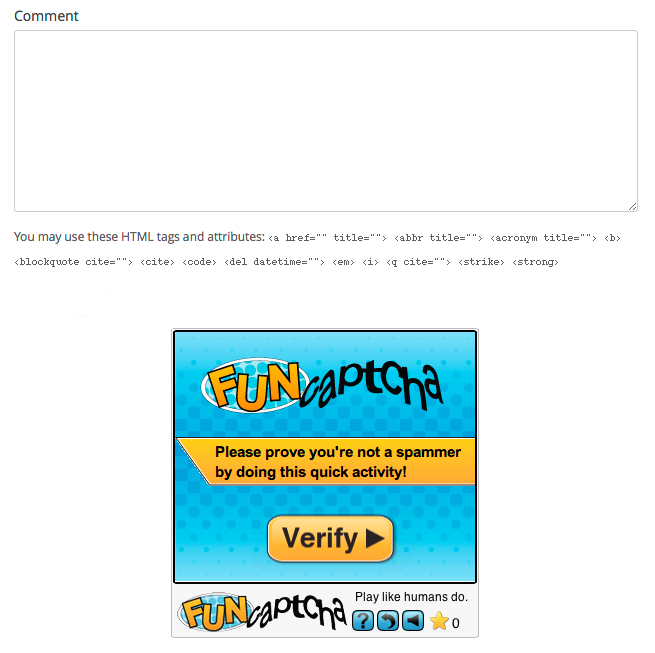
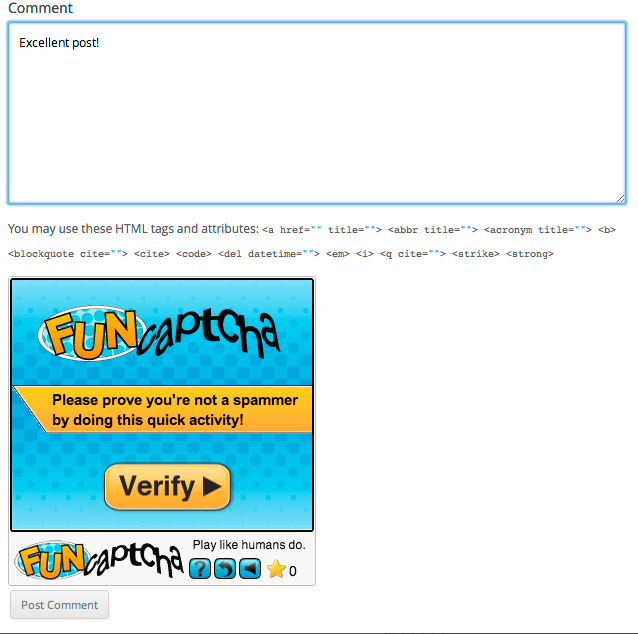
Version 0.2.0. Includes buddy press registration and theme support. Now FunCaptcha is displayed before the comment button, not after. Fixed a rare issue on small mobile themes where a div width was less than 300 pixels, which could cause the FunCaptcha to get cut off. It'll now scale down and make i
git-svn-id: https://plugins.svn.wordpress.org/funcaptcha/trunk@670988 b8457f37-d9ea-0310-8a92-e5e31aec5664

diff --git a/wp_funcaptcha.php b/wp_funcaptcha.php
@@ -1,7 +1,7 @@
 <?php
 /**
  * @package FunCaptcha
- * @version 0.1.0
+ * @version 0.2.0
  */
 /*
 Plugin Name: FunCaptcha
@@ -9,7 +9,7 @@ Plugin URI:  http://wordpress.org/extend/plugins/funcaptcha/
 Description: Stop spammers with a fun, fast mini-game! FunCaptcha is free, and works on every desktop and mobile device.
 Author: SwipeAds
 Author URI: https://swipeads.co/
-Version: 0.1.0
+Version: 0.2.0
 */
 
 
@@ -21,6 +21,9 @@ require_once(PLUGIN_PATH . "funcaptcha.php");
 require_once(PLUGIN_PATH . "addons/wp_funcatpcha_cf7.php");
 
 add_filters_actions();
+
+//BP_INSTALLED
+
 /**
 * Added wordpress filters for funcaptcha
 *
@@ -55,8 +58,14 @@ function funcaptcha_init() {
     
     // If register_form is set in the options, attach to the register hooks
     if( $funcaptcha_options['register_form'] ) {
-        add_action('register_form', 'funcaptcha_register_form');
-        add_action('register_post', 'funcaptcha_register_post', 10, 3);
+        if (BP_INSTALLED) {
+            add_action('bp_before_registration_submit_buttons', 'funcaptcha_register_form_bp');
+            add_action('bp_signup_validate', 'funcaptcha_register_post_bp');
+        } else {
+            add_action('register_form', 'funcaptcha_register_form');
+            add_action('register_post', 'funcaptcha_register_post', 10, 3);
+        }
+        
     }
 
     // If password_form is set in the options, attach to the lost password hooks    
@@ -102,7 +111,11 @@ function funcaptcha_add_admin_menu() {
 function funcpatcha_addons() {
     require_once(ABSPATH . 'wp-admin/includes/plugin.php');
     define('CF7_INSTALLED', is_plugin_active('contact-form-7/wp-contact-form-7.php'));
+    define('BP_INSTALLED', is_plugin_active('buddypress/bp-loader.php'));
 }
+
+if (function_exists('bp_is_register_page'))
+    $is_buddypress = true;
 
 /**
 * setup funcaptcha settings url
@@ -349,11 +362,11 @@ function funcaptcha_get_settings() {
         'version' => FUNCAPTCHA_VERSION,
         'public_key' => '',
         'private_key'   => '',
-        'register_form' => false,
-        'password_form' => false,
-        'comment_form' => false,
+        'register_form' => true,
+        'password_form' => true,
+        'comment_form' => true,
         'hide_users' => false,
-        'submit_id' => ''
+        'error_message' => ''
     );
 
     if ( 1 == $wpmu ){
@@ -415,6 +428,65 @@ function funcaptcha_get_settings_post() {
     return wp_parse_args( $funcaptcha_post, $defaults );
 }
 
+/**
+* resize funcaptcha if mobile screen is small and theme is <300 pixels wide
+*
+* @return string
+*/
+function funcaptcha_resize_mobile() {
+     $script =   "<script type='text/javascript'>
+                    var divSize = document.getElementById('funcaptcha-wrapper').offsetWidth;
+                    if (divSize < 300) {
+                        var css = '#FunCaptcha iframe {width: 100% !important;zoom: 0.99;-o-transform: scale(0.99);-o-transform-origin: 0 0;-webkit-transform: scale(0.99, 0.98);-moz-transform: scale(0.99, 0.98);transform: scale(0.99, 0.98);-moz-transform-origin:0 0;-webkit-transform-origin:0 0;transform-origin:0 0;z-index:90;}',
+                        head = document.getElementsByTagName('head')[0],
+                        style = document.createElement('style');
+                        style.type = 'text/css';
+                        if (style.styleSheet){
+                          style.styleSheet.cssText = css;
+                        } else {
+                          style.appendChild(document.createTextNode(css));
+                        }
+
+                        head.appendChild(style);
+                    }
+                </script>";
+    
+    // Return the script.
+    return $script;
+}
+
+/**
+ * Moves the submit button to the bottom and moves the PlayThru above the
+ * comment form if necessary
+ *
+ * TODO: It might be a good idea to use wp_enqueue_script instead, but there
+ * might be issues with dynamically inserting the button
+ */
+function funcaptcha_rearrange_elements($button_id = 'submit') {
+    if ($button_id == '') {
+        $button_id = 'submit';
+    }
+    
+    $script =   "<script type='text/javascript'>
+                    var moved = false;
+                    // This ensures the code is executed in the right order
+                    if (!moved) {
+                        rearrange_form_elements();
+                    } else {
+                        setTimeout('rearrange_form_elements()', 1000);
+                    }
+                    function rearrange_form_elements() {
+                        var button = document.getElementById('" . $button_id . "');
+                        if (button != null) {
+                            button.parentNode.removeChild(button);
+                            document.getElementById('funcaptcha-wrapper').appendChild(button);
+                        }
+                    }
+                </script>";
+    
+    // Return the script.
+    return $script;
+}
 
 /**
 * display funcaptcha in comment
@@ -432,7 +504,10 @@ function funcaptcha_comment_form() {
 
     $funcaptcha = funcaptcha_API();
     $html = $funcaptcha->getFunCaptcha($options['public_key']);
-    echo "<div id='funcaptcha-comment' style='text-align: center'>" . $html .  "</div>";
+    
+    echo "<div id='funcaptcha-wrapper'>" . $html .  "</div>";
+    echo funcaptcha_rearrange_elements("submit");
+    echo funcaptcha_resize_mobile();
 
 }
 
@@ -468,7 +543,6 @@ function funcaptcha_comment_post($comment) {
     }
 }
 
-
 /**
 * display funcaptcha in registration form
 *
@@ -481,8 +555,25 @@ function funcaptcha_register_form() {
     
     $funcaptcha = funcaptcha_API();
     $html = $funcaptcha->getFunCaptcha($options['public_key']);
-    echo "<div id='funcaptcha-register' style='text-align: center'>" . $html .  "</div>";
+    echo "<div id='funcaptcha-wrapper'>" . $html .  "</div>";
+    echo funcaptcha_resize_mobile();
+    return true;
+}
+
+/**
+* display funcaptcha in registration form
+*
+* @return boolean
+*/
+function funcaptcha_register_form_bp() {
+     
+    $funcaptcha = funcaptcha_API();
+    $options = funcaptcha_get_settings();
     
+    $funcaptcha = funcaptcha_API();
+    $html = $funcaptcha->getFunCaptcha($options['public_key']);
+    echo "<div id='funcaptcha-wrapper'>" . $html .  "</div>";
+    echo funcaptcha_resize_mobile();
     return true;
 }
 
@@ -502,6 +593,18 @@ function funcaptcha_register_post($login, $email, $errors) {
         $errors->add('funcaptcha_incorrect', '<strong>'.__('ERROR', 'funcaptcha').'</strong>: '.__(htmlentities($options['error_message']), 'funcaptcha'));
     }
     return $errors;
+}
+
+// Check the response to the puzzle
+function funcaptcha_register_post_bp($result) {
+    $funcaptcha = funcaptcha_API();
+    $options = funcaptcha_get_settings();
+
+     if ( $funcaptcha->checkResult($options['private_key']) ) {
+     } else {
+         wp_die(__((htmlentities($options['error_message']) . ' <br/><input type="button" value="Go Back" onclick="history.back(-1)" />'),'funcaptcha'));
+    }
+    return $result;
 }
 
 /**

diff --git a/funcaptcha.php b/funcaptcha.php
@@ -3,7 +3,7 @@
  * FunCaptcha
  * PHP Integration Library
  *
- * @version 0.0.2
+ * @version 0.0.3
  *
  * Copyright (c) 2013 SwipeAds -- https://www.swipeads.co
  * AUTHOR:
@@ -31,6 +31,7 @@ if ( ! class_exists('FUNCAPTCHA')):
 	protected $funcaptcha_challenge_url = '';
 	protected $funcaptcha_debug = FALSE;
 	protected $funcaptcha_api_type = "wp";
+	protected $funcaptcha_plugin_version = "0.2.0";
 
 	protected $session_token;
 
@@ -76,11 +77,12 @@ if ( ! class_exists('FUNCAPTCHA')):
 
 		//send your public key, your site name, the users ip and browser type.
 		$data = array(
-			'public_key'	=> $this->funcaptcha_public_key,
-			'site' 			=> $_SERVER["SERVER_NAME"],
-			'userip'	 	=> $_SERVER["REMOTE_ADDR"],
-			'userbrowser'	=> $_SERVER['HTTP_USER_AGENT'],
-			'api_type'		=> $this->funcaptcha_api_type
+			'public_key'		=> $this->funcaptcha_public_key,
+			'site' 				=> $_SERVER["SERVER_NAME"],
+			'userip'	 		=> $_SERVER["REMOTE_ADDR"],
+			'userbrowser'		=> $_SERVER['HTTP_USER_AGENT'],
+			'api_type'			=> $this->funcaptcha_api_type,
+			'plugin_version'	=> $this->funcaptcha_plugin_version
 		);
 
 		//get session token.
